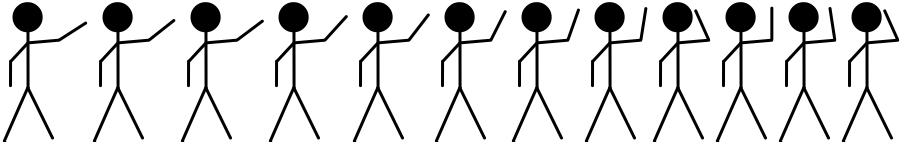
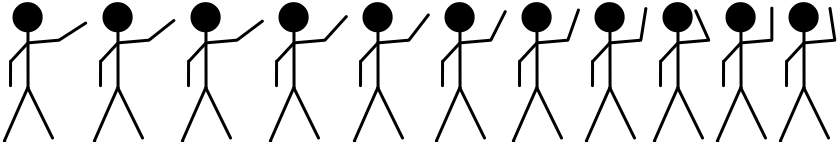
Update game with new enemy
Change enemy to come from left because that's what we have the animation for.
Changed kill to hit enemy off the screen.
Pulled common Character code into base class

Changed region(s): [[0.0, 0.0, 1.0, 1.0]]

diff --git a/src/states/Game.js b/src/states/Game.js
@@ -1,52 +1,48 @@
 /* globals __DEV__ */
 import Phaser from 'phaser'
 import Player from '../sprites/Player'
+import Enemy from '../sprites/Enemy'
 
 export default class extends Phaser.State {
   init () {}
-  preload () {
-    this.game.physics.startSystem(Phaser.Physics.P2JS);
-    this.game.load.physics('stick','assets/physics/stick.json');
-  }
+  preload () {}
 
   create () {
+    this.game.physics.startSystem(Phaser.Physics.P2JS);
     let ground = this.add.graphics(0,0)
     ground.beginFill(0x4e8f35)
     ground.drawRect(0,this.world.height - 100,this.world.width,100)
     this.add.image(10,10,'arrowKeys')
+
+    this.game.physics.p2.updateBoundsCollisionGroup();
+    let enemyCG = this.game.physics.p2.createCollisionGroup();
+    let playerCG = this.game.physics.p2.createCollisionGroup();
 
     this.player = new Player({
       game: this.game,
       x: this.world.centerX,
       y: this.world.height - 150
     })
-    this.enemy = new Player({
+    this.player.body.setCollisionGroup(playerCG)
+    this.enemy = new Enemy({
       game: this.game,
-      x: this.world.centerX + 300,
+      x: this.world.centerX - 400,
       y: this.world.height - 150
     })
+    this.enemy.body.setCollisionGroup(enemyCG)
     this.game.add.existing(this.player)
     this.game.add.existing(this.enemy)
-    this.player.body.collides([this.enemy])
-    this.enemy.body.collides([this.player])
+    this.player.body.collides([enemyCG])
+    this.enemy.body.collides([playerCG])
     this.cursors = this.input.keyboard.createCursorKeys()
     this.spaceKey = this.game.input.keyboard.addKey(Phaser.Keyboard.SPACEBAR);
-    
-    // make the sprite steady when it moves
-    this.enemy.body.setZeroDamping();
-	  this.enemy.body.fixedRotation = true;
   }
 
   update() {
     this.player.body.setZeroVelocity()
     
-    //move enemy
+    let closeToPlayerLeft = this.player.x - this.player.width;
     let closeToPlayerRight = this.player.x + this.player.width;
-    if( this.enemy.x > closeToPlayerRight ){
-      this.enemy.body.moveLeft(100);
-    }else{
-      this.enemy.body.setZeroVelocity();
-    }
 
     if (this.cursors.left.isDown)
     {
@@ -69,8 +65,8 @@ export default class extends Phaser.State {
     // Press space when the enemy is close, and you get a hit!
     if (this.spaceKey.isDown)
     {
-      if( this.enemy.x <= closeToPlayerRight ){
-        this.enemy.kill();
+      if( this.enemy.x >= closeToPlayerLeft){
+        this.enemy.hitLeft();
       }
     }
   }

diff --git a/src/sprites/Character.js b/src/sprites/Character.js
@@ -1,0 +1,38 @@
+import Phaser from 'phaser'
+
+export default class extends Phaser.Sprite {
+  constructor(game, x, y, name, initial) {
+    super(game,x,y,name,initial)
+    this.game.physics.p2.enable([this], false);
+    // this.body.setZeroDamping()
+    this.body.fixedRotation = true
+    this.addAnimations()
+    this.updatePhysics()
+  }
+
+  addAnimations() {
+    let animations = new Map
+    let frames = this.game.cache.getFrameData(this.key).getFrames()
+    for(let i = 0; i < frames.length; ++i) {
+      let frameName = frames[i].name
+      let animationName = frameName.split('/')[0]
+      if(animations.has(animationName)) {
+        animations.get(animationName).push(frameName)
+      } else {
+        animations.set(animationName,[frameName])
+      }
+    }
+    for(let [name,frames] of animations) {
+      this.animations.add(name, frames.sort())
+    }
+  }
+
+  update() {
+    this.updatePhysics()
+  }
+
+  updatePhysics() {
+    this.body.clearShapes()
+    this.body.loadPolygon(this.key, this.frameName)
+  }
+}

diff --git a/src/sprites/Enemy.js b/src/sprites/Enemy.js
@@ -1,0 +1,42 @@
+import Character from './Character'
+
+export default class extends Character {
+  constructor({game,x,y}) {
+    super(game,x,y,'enemy','walk_right/0001.png')
+    this.walk_right()
+  }
+
+  walk_right() {
+    this.state = 'walk_right'
+    this.animations.play('walk_right',8,true)
+  }
+
+  hitLeft() {
+    this.hit()
+    this.body.moveLeft(1200)
+    this.body.rotateLeft(300)
+  }
+
+  hitRight() {
+    this.hit()
+    this.body.moveRight(1200)
+    this.body.rotateRight(300)
+  }
+
+  hit() {
+    this.state = 'hit'
+    this.body.fixedRotation = false
+    this.checkWorldBounds = true
+    this.body.collideWorldBounds = false
+    this.outOfBoundsKill = true
+    this.body.moveUp(300)
+  }
+
+  update() {
+    super.update()
+    if(this.state == 'walk_right') {
+      this.body.setZeroVelocity()
+      this.body.moveRight(190)
+    }
+  }
+}

diff --git a/src/sprites/Player.js b/src/sprites/Player.js
@@ -1,20 +1,8 @@
-import Phaser from 'phaser'
+import Character from './Character'
 
-export default class extends Phaser.Sprite {
+export default class extends Character {
   constructor({game, x, y}) {
-    super(game,x,y,'stick','stick.0000.png')
-    this.animations.add('wave', Phaser.Animation.generateFrameNames('stick.', 0, 11, '.png', 4), 30, true, false);
-    this.animations.play('wave');
-    this.game.physics.p2.enable([this], false);
-    this.updatePhysics()
-  }
-
-  update() {
-    this.updatePhysics()
-  }
-
-  updatePhysics() {
-    this.body.clearShapes()
-    this.body.loadPolygon('stick', this.animations.currentFrame.name)
+    super(game,x,y,'stick','wave/0000.png')
+    this.animations.play('wave',30,true);
   }
 }

diff --git a/src/states/Splash.js b/src/states/Splash.js
@@ -20,8 +20,9 @@ export default class extends Phaser.State {
     //
     // load your assets
     //
-    this.loadSprite('stick')
     this.load.image('arrowKeys', './assets/images/arrow-keys.png')
+    this.loadCharacter('stick')
+    this.loadCharacter('enemy')
   }
 
   create () {
@@ -39,7 +40,16 @@ export default class extends Phaser.State {
     }
   }
 
+  loadCharacter(name) {
+    this.loadSprite(name)
+    this.loadPhysics(name)
+  }
+
   loadSprite(name) {
     this.load.atlasJSONHash(name, 'assets/animation/'+name+'.png', 'assets/animation/'+name+'.json')
+  }
+
+  loadPhysics(name) {
+    this.game.load.physics(name,'assets/physics/'+name+'.json')
   }
 }
